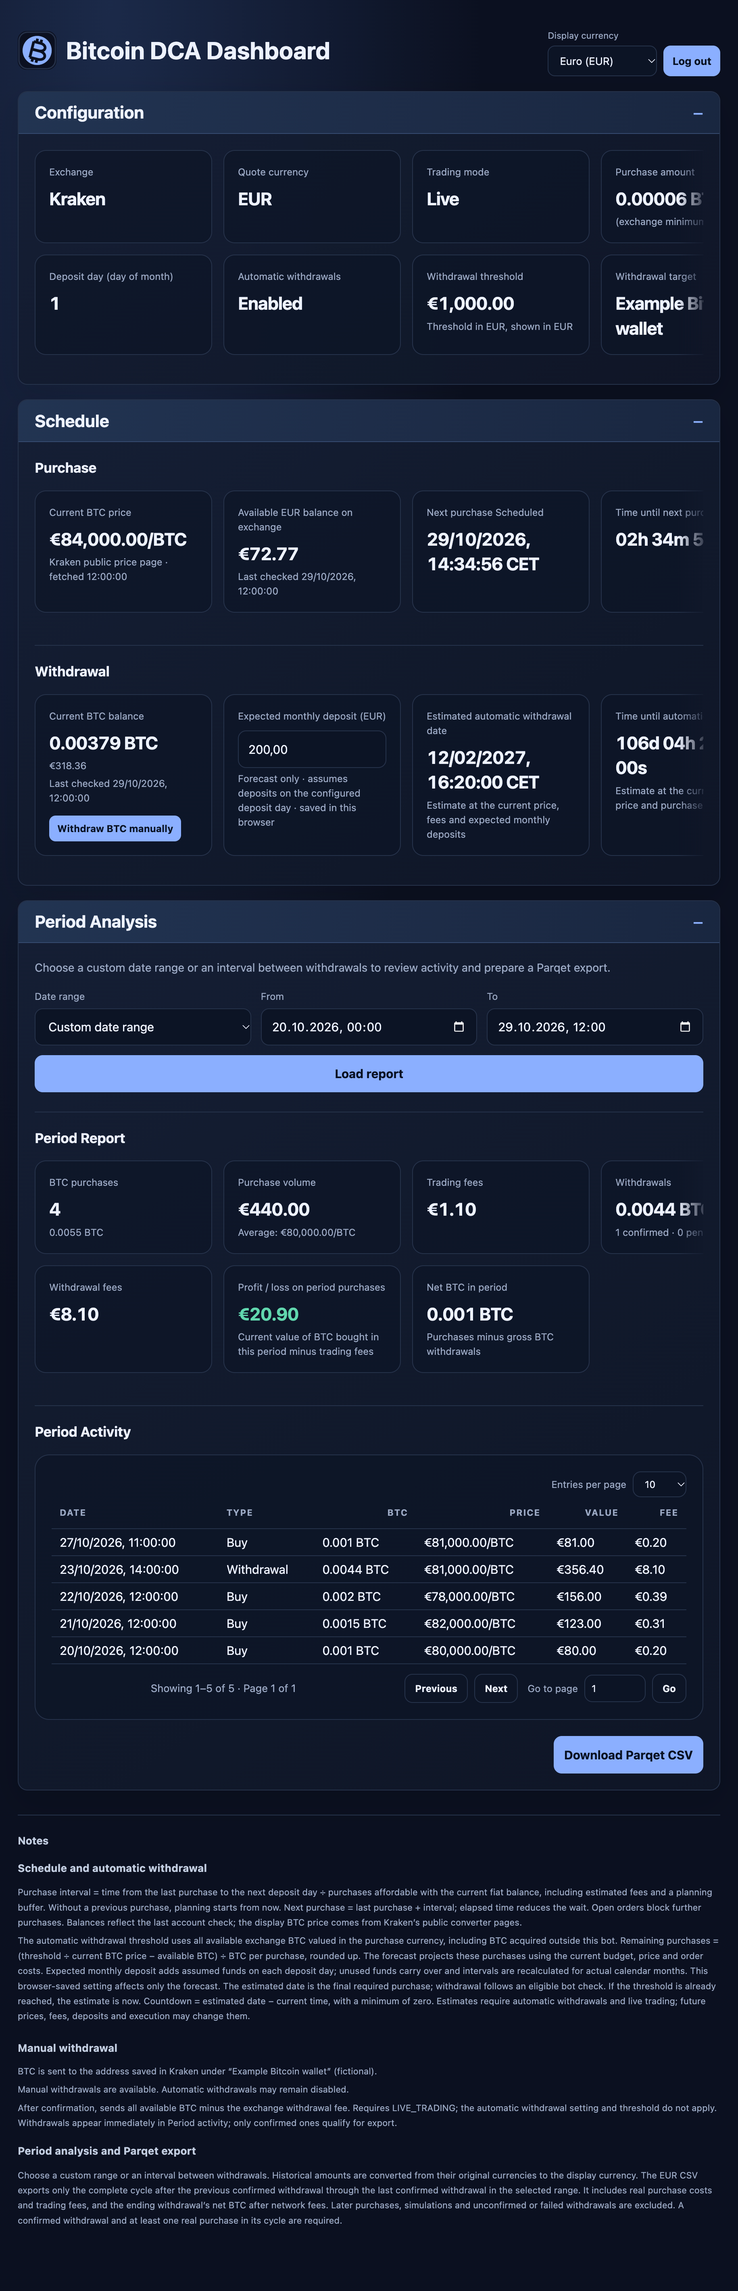
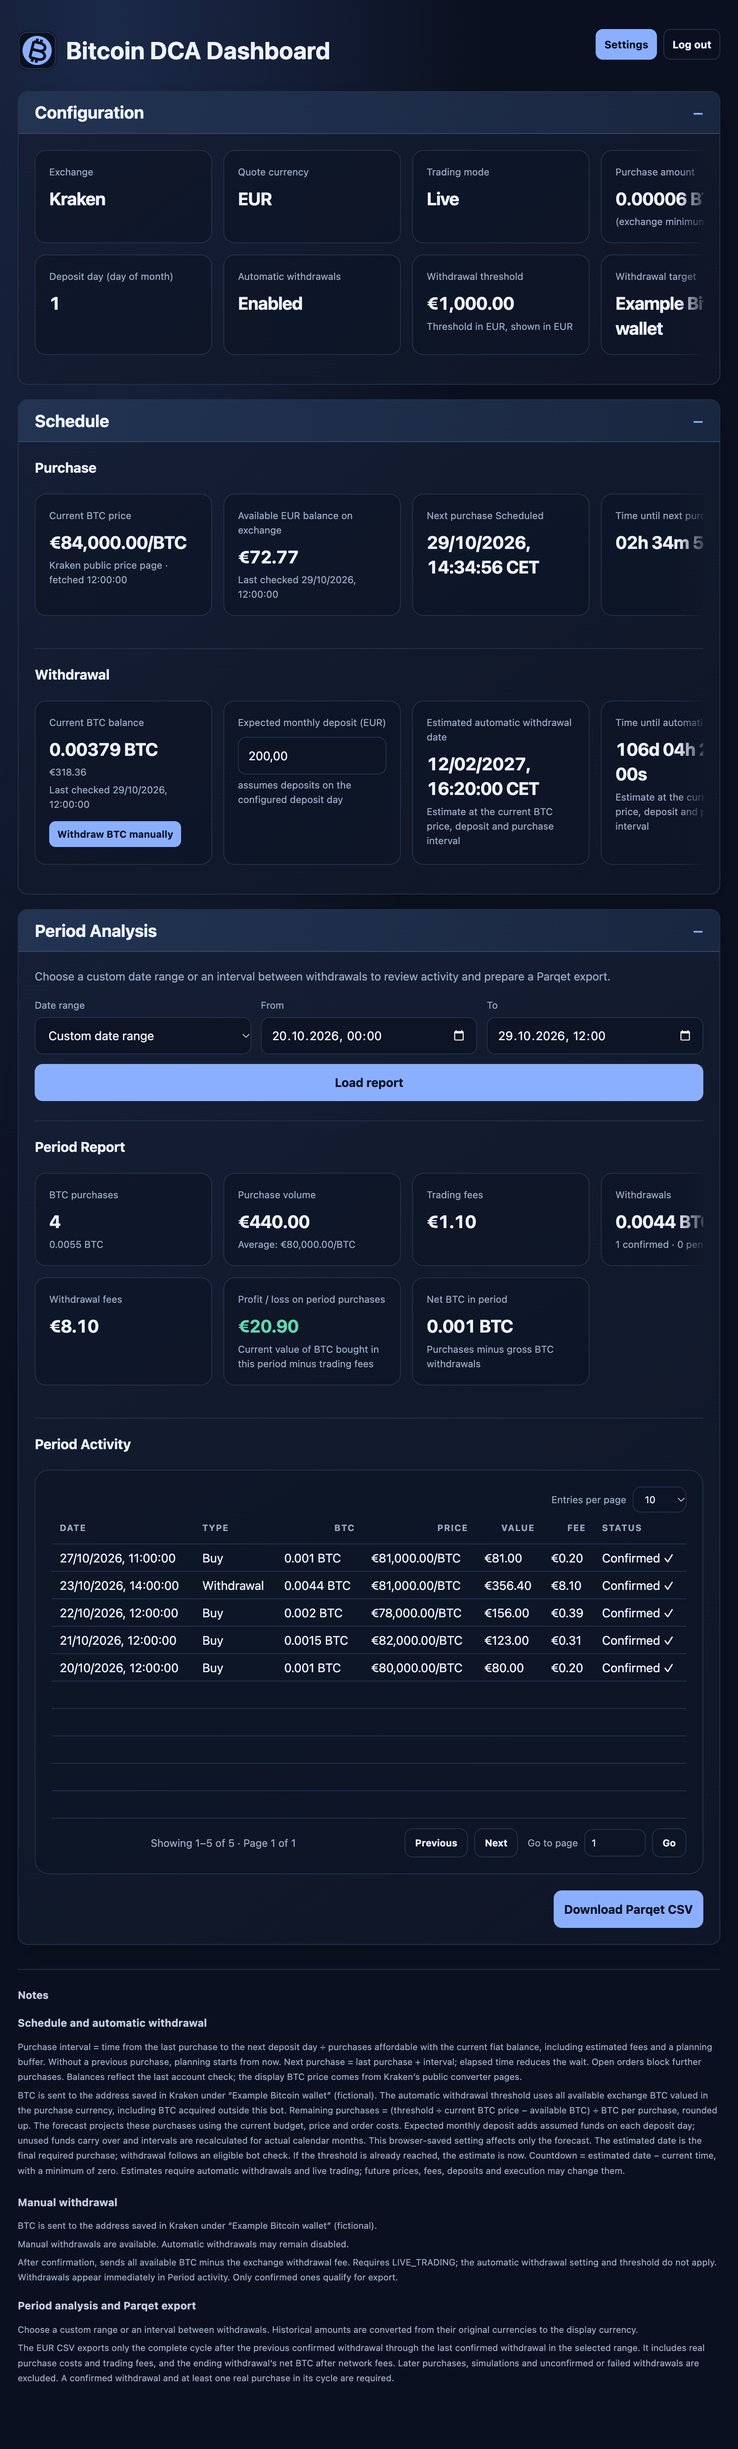
Persist forecast deposits in the volume and refresh dashboard documentation

diff --git a/app/web_ui.py b/app/web_ui.py
@@ -115,7 +115,7 @@ HTML = """<!doctype html>
 <style>
 :root{color-scheme:dark;--bg:#0b1020;--panel:#121a2d;--line:#26324a;--text:#edf2ff;--muted:#9ba9c4;--accent:#8bafff;--green:#61d7ae;--red:#ff8f9e}
 *{box-sizing:border-box}body{margin:0;background:radial-gradient(ellipse at 15% 0%,#1b2a49 0,transparent 42%),var(--bg);color:var(--text);font:15px/1.5 system-ui,-apple-system,Segoe UI,sans-serif}
-.dashboard-brand{display:flex;align-items:center;gap:12px;margin-bottom:6px;min-width:0}.dashboard-logo{display:block;width:48px;height:48px;flex:0 0 48px;border-radius:11px}.dashboard-brand h1{min-width:0;overflow-wrap:anywhere}
+.dashboard-brand{display:flex;align-items:center;gap:12px;margin-bottom:0;min-width:0}.dashboard-logo{display:block;width:48px;height:48px;flex:0 0 48px;border-radius:11px}.dashboard-brand h1{min-width:0;overflow-wrap:anywhere}
 main{max-width:1180px;margin:0 auto;padding:36px 22px 64px}.top{display:flex;justify-content:space-between;gap:18px;align-items:center;margin-bottom:26px}.eyebrow{color:var(--accent);font-size:12px;font-weight:700;letter-spacing:.14em;text-transform:uppercase}h1{font-size:30px;margin:4px 0}.sub{color:var(--muted);margin:0}
 .bottom-actions{display:flex;justify-content:flex-end;margin-top:20px}.top-actions{display:flex;flex-direction:column;align-items:flex-end;gap:10px}.top-actions form{margin:0;flex:0 0 auto}.top-actions>button{width:auto;flex:0 0 auto}.withdraw-action{display:flex;flex-direction:column;align-items:flex-end;gap:4px;min-width:0}#withdrawMessage:empty{display:none}.top-actions .field{min-width:170px}.top-actions .field label{margin-bottom:5px}
 .panel{background:linear-gradient(145deg,rgba(21,31,52,.96),rgba(15,22,39,.96));border:1px solid var(--line);border-radius:18px;padding:20px;margin:18px 0;box-shadow:0 14px 40px #0002}
@@ -212,7 +212,7 @@ body.header-actions-hidden .top-actions{opacity:0;transform:translateY(-8px);vis
 @media(prefers-reduced-motion:reduce){.compact-brand-bar,.top-actions{transition:none}}
 
 /* Compact header controls share one row and wrap only when space is limited. */
-.top{align-items:flex-start;flex-wrap:wrap}
+.top{align-items:center;flex-wrap:wrap}
 .top-actions{display:flex;flex-direction:row;align-items:flex-end;justify-content:flex-end;flex-wrap:wrap;gap:8px;margin-left:auto}
 .top-actions button,.top-actions select{padding:8px 10px;min-height:38px;font-size:13px;border-radius:9px}
 .top-actions .field{min-width:130px}
@@ -331,7 +331,7 @@ th.num,td.num{text-align:right;font-variant-numeric:tabular-nums;font-feature-se
 <h3 id="withdrawalHeading" class="summary-subheading">Withdrawal</h3>
 <div class="schedule-row-scroll horizontal-scroll" role="region" aria-label="Withdrawal schedule cards" tabindex="0"><div class="grid schedule-grid">
 <div class="card btc-balance-card"><label>Current BTC balance</label><div class="value" id="exchangeBtcBalance">—</div><div class="small" id="exchangeBtcValue">—</div><div class="small" id="exchangeBtcUpdated">Waiting for account check</div><div class="withdraw-action"><button id="manualWithdraw" type="button" aria-describedby="withdrawal-note withdrawalFeedback">Withdraw BTC manually</button><div class="feedback-wrap"><p id="withdrawalFeedback" class="export-feedback withdraw-feedback hidden" role="alert"></p><button class="secondary feedback-close" type="button" data-dismiss="withdrawalFeedback" aria-label="Close withdrawal message">×</button></div></div></div>
-<div class="card"><div class="field"><label for="monthlyDeposit">Expected monthly deposit (<span id="monthlyDepositCurrency">EUR</span>)</label><input id="monthlyDeposit" type="number" min="0" step="0.01" inputmode="decimal" value="0"></div><div class="small">assumes deposits on the configured deposit day</div></div>
+<div class="card"><div class="field"><label for="monthlyDeposit">Expected monthly deposit (<span id="monthlyDepositCurrency">EUR</span>)</label><input id="monthlyDeposit" type="number" min="0" step="0.01" inputmode="decimal" value=""></div><div class="small">assumes deposits on the configured deposit day</div></div>
 <div class="card time-card"><label>Estimated automatic withdrawal date</label><div class="value time-value" id="estimatedWithdrawalAt">—</div><div class="small" id="estimatedWithdrawalStatus">Waiting for account check</div></div>
 <div class="card time-card"><label>Time until automatic withdrawal</label><div class="value countdown-value" id="withdrawalCountdown">—</div><div class="small" id="withdrawalCountdownStatus">Estimate at the current BTC price, deposit and purchase interval</div></div>
 </div></div>
@@ -365,7 +365,7 @@ th.num,td.num{text-align:right;font-variant-numeric:tabular-nums;font-feature-se
 <footer class="dashboard-footnotes" aria-labelledby="notesHeading">
 <h2 id="notesHeading">Notes</h2>
 <ol>
-<li id="schedule-note"><strong>Schedule and automatic withdrawal</strong><p>Purchase interval = time from the last purchase to the next deposit day ÷ purchases affordable with the current fiat balance, including estimated fees and a planning buffer. Without a previous purchase, planning starts from now. Next purchase = last purchase + interval; elapsed time reduces the wait. Open orders block further purchases. Balances reflect the last account check; the display BTC price comes from Kraken’s public converter pages.</p><p id="automatic-withdrawal-note"><span id="automaticWithdrawalDestination"></span> The automatic withdrawal threshold uses all available exchange BTC valued in the purchase currency, including BTC acquired outside this bot. Remaining purchases = (threshold ÷ current BTC price − available BTC) ÷ BTC per purchase, rounded up. The forecast projects these purchases using the current budget, price and order costs. Expected monthly deposit adds assumed funds on each deposit day; unused funds carry over and intervals are recalculated for actual calendar months. This browser-saved setting affects only the forecast. The estimated date is the final required purchase; withdrawal follows an eligible bot check. If the threshold is already reached, the estimate is now. Countdown = estimated date − current time, with a minimum of zero. Estimates require automatic withdrawals and live trading; future prices, fees, deposits and execution may change them.</p><div id="withdrawal-note" class="note-subsection"><h3 class="note-subheading">Manual withdrawal</h3><p id="withdrawalDestination">Loading withdrawal configuration…</p><p id="withdrawMessage" role="status" aria-live="polite"></p><p>After confirmation, sends all available BTC minus the exchange withdrawal fee. Requires LIVE_TRADING; the automatic withdrawal setting and threshold do not apply. Withdrawals appear immediately in Period activity.<span id="manual-export-note"> Only confirmed ones qualify for export.</span></p></div></li>
+<li id="schedule-note"><strong>Schedule and automatic withdrawal</strong><p>Purchase interval = time from the last purchase to the next deposit day ÷ purchases affordable with the current fiat balance, including estimated fees and a planning buffer. Without a previous purchase, planning starts from now. Next purchase = last purchase + interval; elapsed time reduces the wait. Open orders block further purchases. Balances reflect the last account check; the display BTC price comes from Kraken’s public converter pages.</p><p id="automatic-withdrawal-note"><span id="automaticWithdrawalDestination"></span> The automatic withdrawal threshold uses all available exchange BTC valued in the purchase currency, including BTC acquired outside this bot. Remaining purchases = (threshold ÷ current BTC price − available BTC) ÷ BTC per purchase, rounded up. The forecast projects these purchases using the current budget, price and order costs. Expected monthly deposit adds assumed funds on each deposit day; unused funds carry over and intervals are recalculated for actual calendar months. This volume-saved setting affects only the forecast. The estimated date is the final required purchase; withdrawal follows an eligible bot check. If the threshold is already reached, the estimate is now. Countdown = estimated date − current time, with a minimum of zero. Estimates require automatic withdrawals and live trading; future prices, fees, deposits and execution may change them.</p><div id="withdrawal-note" class="note-subsection"><h3 class="note-subheading">Manual withdrawal</h3><p id="withdrawalDestination">Loading withdrawal configuration…</p><p id="withdrawMessage" role="status" aria-live="polite"></p><p>After confirmation, sends all available BTC minus the exchange withdrawal fee. Requires LIVE_TRADING; the automatic withdrawal setting and threshold do not apply. Withdrawals appear immediately in Period activity.<span id="manual-export-note"> Only confirmed ones qualify for export.</span></p></div></li>
 <li id="report-note"><strong>Period analysis and Parqet export</strong><p>Choose a custom range or an interval between withdrawals. Historical amounts are converted from their original currencies to the display currency.</p><p id="parqet-note">The EUR CSV exports only the complete cycle after the previous confirmed withdrawal through the last confirmed withdrawal in the selected range. It includes real purchase costs and trading fees, and the ending withdrawal’s net BTC after network fees. Later purchases, simulations and unconfirmed or failed withdrawals are excluded. A confirmed withdrawal and at least one real purchase in its cycle are required.</p></li>
 </ol>
 </footer>
@@ -459,11 +459,12 @@ function renderPurchaseCountdown(){
 async function refreshPurchaseSchedule(){
  const request=++scheduleRequest;sectionFeedback("scheduleFeedback","Updating schedule…");
  try{
-  const response=await fetch("/api/schedule?monthlyDeposit="+encodeURIComponent($("monthlyDeposit").value||"0"));
+  const response=await fetch("/api/schedule");
   if(response.status===401){window.location.reload();return}
   if(!response.ok)throw new Error("Schedule unavailable");
   const schedule=await response.json();if(request!==scheduleRequest)return;const target=Date.parse(schedule.nextPurchaseAt),serverTime=Date.parse(schedule.serverTime);
   $("monthlyDepositCurrency").textContent=schedule.quote;
+  if(!monthlyDepositDirty&&!monthlyDepositSaving)$("monthlyDeposit").value=schedule.expectedMonthlyDeposit??"";
   if(schedule.configuredBuyAmount!==undefined){
    const minimumMode=Number(schedule.configuredBuyAmount)===0;
    const effective=Number(schedule.effectiveBuyAmount);
@@ -494,12 +495,21 @@ async function refreshPurchaseSchedule(){
   sectionFeedback("scheduleFeedback","");
  }catch(e){if(request===scheduleRequest)sectionFeedback("scheduleFeedback","Could not refresh the schedule. Previous values are still shown.",true)}
 }
-const savedMonthlyDeposit=localStorage.getItem("bitcoinDcaMonthlyDeposit");
-if(savedMonthlyDeposit!==null&&Number.isFinite(Number(savedMonthlyDeposit))&&Number(savedMonthlyDeposit)>=0)$("monthlyDeposit").value=savedMonthlyDeposit;
-$("monthlyDeposit").addEventListener("change",()=>{
- const amount=Number($("monthlyDeposit").value);
- if(!Number.isFinite(amount)||amount<0){$("monthlyDeposit").reportValidity();return}
- localStorage.setItem("bitcoinDcaMonthlyDeposit",String(amount));refreshPurchaseSchedule();
+let monthlyDepositDirty=false,monthlyDepositSaving=false;
+$("monthlyDeposit").addEventListener("input",()=>{monthlyDepositDirty=true});
+$("monthlyDeposit").addEventListener("change",async()=>{
+ const input=$("monthlyDeposit"),amount=input.value.trim();
+ if(amount!==""&&(!Number.isFinite(Number(amount))||Number(amount)<0)){input.reportValidity();return}
+ monthlyDepositDirty=true;monthlyDepositSaving=true;input.disabled=true;
+ sectionFeedback("scheduleFeedback","Saving forecast amount…");
+ try{
+  const response=await fetch("/api/settings/forecast",{method:"POST",headers:{"Content-Type":"application/json","X-DCA-Action":"settings"},body:JSON.stringify({monthlyDeposit:amount})});
+  if(response.status===401){window.location.reload();return}
+  const data=await response.json();if(!response.ok)throw new Error(data.error||"Forecast amount could not be saved.");
+  input.value=data.monthlyDeposit;monthlyDepositDirty=false;
+  await refreshPurchaseSchedule();
+ }catch(error){sectionFeedback("scheduleFeedback",error.message||"Forecast amount could not be saved.",true)}
+ finally{monthlyDepositSaving=false;input.disabled=false}
 });
 setInterval(renderPurchaseCountdown,1000);
 setInterval(refreshPurchaseSchedule,30000);
@@ -1007,7 +1017,7 @@ class Handler(BaseHTTPRequestHandler):
         if not self.runtime:
             self._json(404, {'error': 'Settings unavailable.'})
             return
-        operation = {'/api/setup/account': 'Initial account creation', '/api/settings/test': 'Exchange connection test', '/api/settings': 'Settings update'}[path]
+        operation = {'/api/setup/account': 'Initial account creation', '/api/settings/test': 'Exchange connection test', '/api/settings': 'Settings update', '/api/settings/forecast': 'Forecast settings update'}[path]
         if path != '/api/setup/account' and not self._require_authentication():
             LOG.info('%s rejected: authentication required', operation)
             return
@@ -1024,6 +1034,8 @@ class Handler(BaseHTTPRequestHandler):
                 self.send_header('Cache-Control', 'no-store')
                 self.end_headers()
                 self.wfile.write(b'{}')
+            elif path == '/api/settings/forecast':
+                self._json(200, self.runtime.save_forecast_deposit(payload))
             elif path == '/api/settings/test':
                 self._json(200, self.runtime.test_connection(payload))
             else:
@@ -1075,7 +1087,7 @@ class Handler(BaseHTTPRequestHandler):
             from configuration import runtime_settings
             self.settings = runtime_settings(self.runtime.store.snapshot()['settings'])
         parsed = urlparse(self.path)
-        if parsed.path in ('/api/setup/account', '/api/settings', '/api/settings/test'):
+        if parsed.path in ('/api/setup/account', '/api/settings', '/api/settings/test', '/api/settings/forecast'):
             self._settings_post(parsed.path)
             return
         if parsed.path == "/login":
@@ -1266,9 +1278,10 @@ class Handler(BaseHTTPRequestHandler):
                 else:
                     forecast_at, forecast_status = withdrawal_forecast(
                         self.settings, snapshot if balance_matches else {},
-                        query.get("monthlyDeposit", ["0"])[0], datetime.now(timezone.utc))
+                        self.settings.get("expected_monthly_deposit") or "0", datetime.now(timezone.utc))
                 self._json(200, {
                     "exchangeCheckPending": exchange_check_pending,
+                    "expectedMonthlyDeposit": self.settings.get("expected_monthly_deposit", ""),
                     "quote": self.settings["quote"],
                     "exchange": self.settings["exchange"],
                     "quoteBalance": snapshot.get("quoteBalance") if balance_matches else None,

diff --git a/tests/test_configuration.py b/tests/test_configuration.py
@@ -365,6 +365,39 @@ class ConfigurationTests(unittest.TestCase):
         self.assertNotIn('</script><script>alert(1)', page)
         self.assertIn('\\u003c/script', page)
 
+    def test_forecast_deposit_starts_empty_and_is_saved_in_volume_without_exchange_calls(self):
+        self.ready()
+        self.assertEqual(self.store.snapshot()['settings']['expected_monthly_deposit'],'')
+        self.api_factory.reset_mock()
+        self.app.worker.reconfigure.clear()
+        result=self.app.save_forecast_deposit({'monthlyDeposit':'200.50'})
+        self.assertEqual(result,{'monthlyDeposit':'200.50'})
+        reloaded=config.ConfigStore(self.store.path)
+        self.assertEqual(reloaded.snapshot()['settings']['expected_monthly_deposit'],'200.50')
+        self.api_factory.assert_not_called()
+        self.assertFalse(self.app.worker.reconfigure.is_set())
+        self.app.save_forecast_deposit({'monthlyDeposit':''})
+        self.assertEqual(config.ConfigStore(self.store.path).snapshot()['settings']['expected_monthly_deposit'],'')
+
+    def test_forecast_deposit_rejects_invalid_values_without_modifying_config(self):
+        self.ready();before=self.store.path.read_bytes()
+        for payload in [{'monthlyDeposit':'-1'},{'monthlyDeposit':'NaN'},{'monthlyDeposit':'Infinity'},
+                        {'monthlyDeposit':True},{'monthlyDeposit':None},{'monthlyDeposit':'10','live':True}]:
+            with self.subTest(payload=payload),self.assertRaises(ValueError):self.app.save_forecast_deposit(payload)
+            self.assertEqual(self.store.path.read_bytes(),before)
+
+    def test_forecast_endpoint_requires_session_and_action_header_and_ignores_query_override(self):
+        request=self.server()
+        self.assertEqual(request('/api/settings/forecast',{'monthlyDeposit':'200'})[0],401)
+        request('/api/setup/account',{'username':'operator','password':PASSWORD})
+        request('/api/settings',{'settings':CREDENTIALS})
+        self.assertEqual(request('/api/settings/forecast',{'monthlyDeposit':'200'},header=False)[0],400)
+        self.assertEqual(request('/api/settings/forecast',{'monthlyDeposit':'200'})[0],200)
+        status,body=request('/api/schedule?monthlyDeposit=9999')
+        self.assertEqual(status,200)
+        self.assertEqual(json.loads(body)['expectedMonthlyDeposit'],'200')
+        self.assertNotIn('bitcoinDcaMonthlyDeposit',web_ui.HTML)
+
     def server(self):
         # Exercise the real HTTP handlers in memory; no listening socket or exchange.
         self.cookie = ''

diff --git a/app/configuration.py b/app/configuration.py
@@ -21,7 +21,7 @@ DEFAULTS = dict(exchange='KRAKEN', quote='EUR', buy_amount='0', deposit_day=1,
                 startup_delay_seconds=60, order_status_check_seconds=30, check_interval_seconds=300,
                 timezone='Europe/Berlin', live=False, withdrawals_enabled=False,
                 withdraw_threshold='1000', withdraw_address='', withdraw_network='BTC', kraken_withdraw_key='',
-                manual_withdrawal_enabled=True, parqet_enabled=True, display_currency='EUR',
+                manual_withdrawal_enabled=True, parqet_enabled=True, display_currency='EUR', expected_monthly_deposit='',
                 **{key: '' for key in SECRET_FIELDS})
 
 
@@ -77,13 +77,17 @@ def validate(values, previous=None, require_credentials=True):
         raise ValueError('Select Kraken or Bitvavo and EUR or USD.')
     if result['exchange'] == 'BITVAVO' and result['quote'] != 'EUR':
         raise ValueError('Bitvavo supports EUR purchases only.')
-    for key in ('buy_amount', 'withdraw_threshold'):
+    for key in ('buy_amount', 'withdraw_threshold', 'expected_monthly_deposit'):
+        if key == 'expected_monthly_deposit' and result[key] == '':
+            continue
         try:
             number = Decimal(result[key])
             if not number.is_finite() or number < 0 or (key == 'withdraw_threshold' and number <= 0):
                 raise InvalidOperation
             result[key] = str(number)
         except InvalidOperation:
+            if key == 'expected_monthly_deposit':
+                raise ValueError('Expected monthly deposit must be a finite non-negative amount.') from None
             raise ValueError(f'{key} must be a finite positive amount (purchase amount may be zero).') from None
     if not 1 <= result['deposit_day'] <= 31 or not 0 <= result['startup_delay_seconds'] <= 86400:
         raise ValueError('Deposit day must be 1–31; startup delay must be 0–86400 seconds.')

diff --git a/app/runtime.py b/app/runtime.py
@@ -190,6 +190,22 @@ class Runtime:
             LOG.info('Application settings saved: exchange=%s; live trading=%s; automatic withdrawals=%s; manual withdrawals=%s; Parqet=%s', values['exchange'], values['live'], values['withdrawals_enabled'], values['manual_withdrawal_enabled'], values['parqet_enabled'])
             return account_changed
 
+    def save_forecast_deposit(self, payload):
+        """Persist a reporting assumption without touching the exchange worker."""
+        if not isinstance(payload, dict) or set(payload) != {'monthlyDeposit'}:
+            raise ValueError('Invalid monthly deposit request.')
+        with self.store.lock:
+            previous = self.store.snapshot()
+            if not previous['complete']:
+                raise ValueError('Complete initial configuration first.')
+            values = validate({'expected_monthly_deposit': payload['monthlyDeposit']}, previous['settings'])
+            amount = values['expected_monthly_deposit']
+            if amount != previous['settings'].get('expected_monthly_deposit', ''):
+                self.store.commit(values)
+                self.settings['expected_monthly_deposit'] = amount
+                LOG.info('Expected monthly deposit saved: amount=%s %s; forecast only; purchase schedule unchanged', amount or 'unset', values['quote'])
+            return {'monthlyDeposit': amount}
+
     def test_connection(self, payload):
         # Read-only and serialized so a connection test cannot race a financial action.
         with self.lock:

diff --git a/docs/architecture.md b/docs/architecture.md
@@ -100,3 +100,5 @@ Import it as a trusted certificate authority on each device. On macOS use [Keych
 Session cookies use `Secure`, `HttpOnly` and `SameSite=Strict`, with a fixed 30-minute lifetime. Five failed sign-in attempts from one IP cause a pause until the 15-minute window expires; forwarded IP headers are not trusted. Sensitive settings require the current password: login credentials, exchange/API access, withdrawal destination/threshold, and enabling live trading or automatic withdrawals. Password confirmation attempts are also limited to five per 15 minutes. Cosmetic settings need no password confirmation. Limits are in memory and reset on process restart. These protections follow [OWASP session guidance](https://cheatsheetseries.owasp.org/cheatsheets/Session_Management_Cheat_Sheet.html).
 
 If a client reports `certificate unknown`, it rejected the certificate before an HTTP request was sent. Trust the current volume's `tls/ca.pem` on that device and ensure `WEB_UI_TLS_HOSTS` contains the server address used in the URL. The client IP in the log is not the server address. The first certificate rejection is WARNING; repetitions, disconnects and handshake timeouts are DEBUG. Unexpected internal request failures retain their traceback.
+
+The expected monthly deposit used by the withdrawal forecast is stored with the saved configuration in the named volume. It starts empty; browser-stored values are not imported. Updating it does not recreate the exchange adapter, advance the account-check deadline, or change actual deposits/purchases.

diff --git a/docs/CHANGELOG.md b/docs/CHANGELOG.md
@@ -4,6 +4,9 @@ Release history based on the published [GitHub Releases](https://github.com/oli7
 
 ## Unreleased
 
+- Persisted the expected monthly deposit in the named volume, starting empty without importing browser values.
+- Vertically aligned header buttons with the dashboard title.
+
 - Locked background scrolling while settings, withdrawal and review dialogs are open, restoring the previous position on close.
 - Placed exchange and purchase currency cards in one horizontal row on mobile.
 
